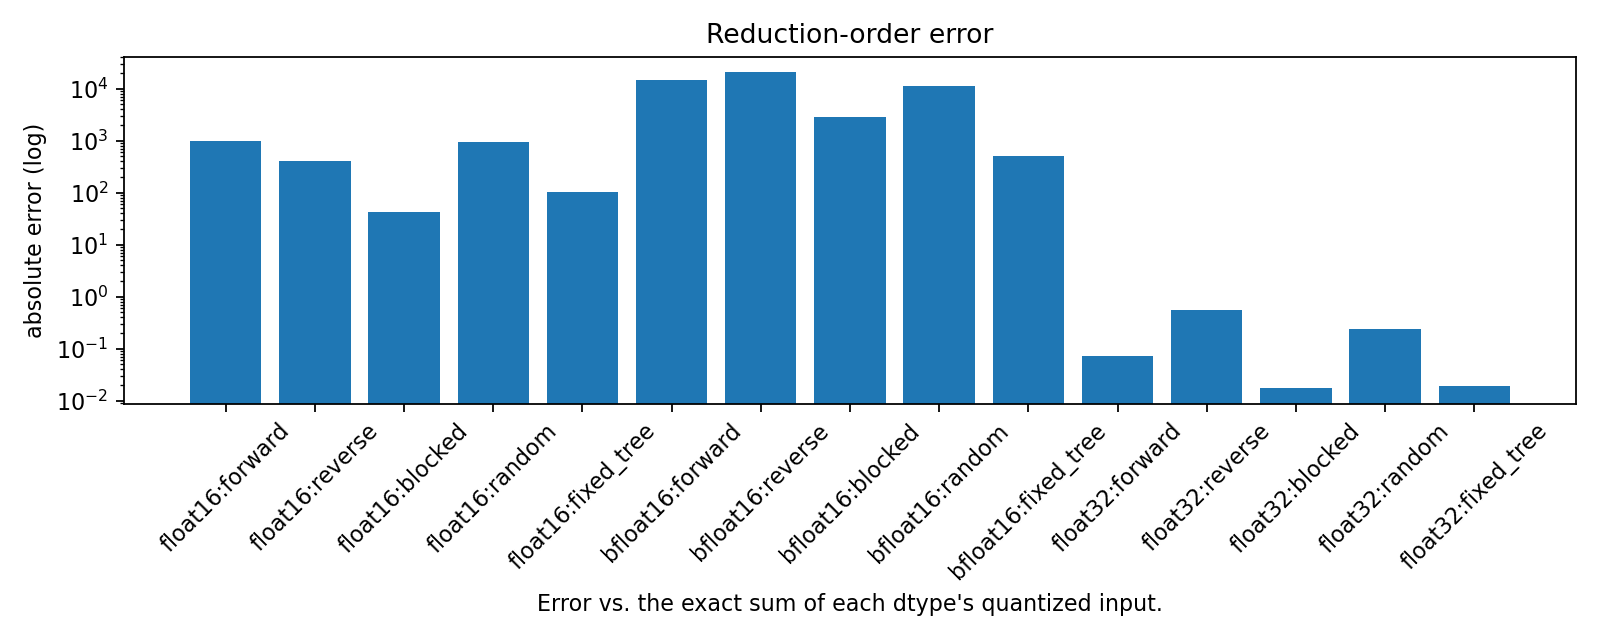
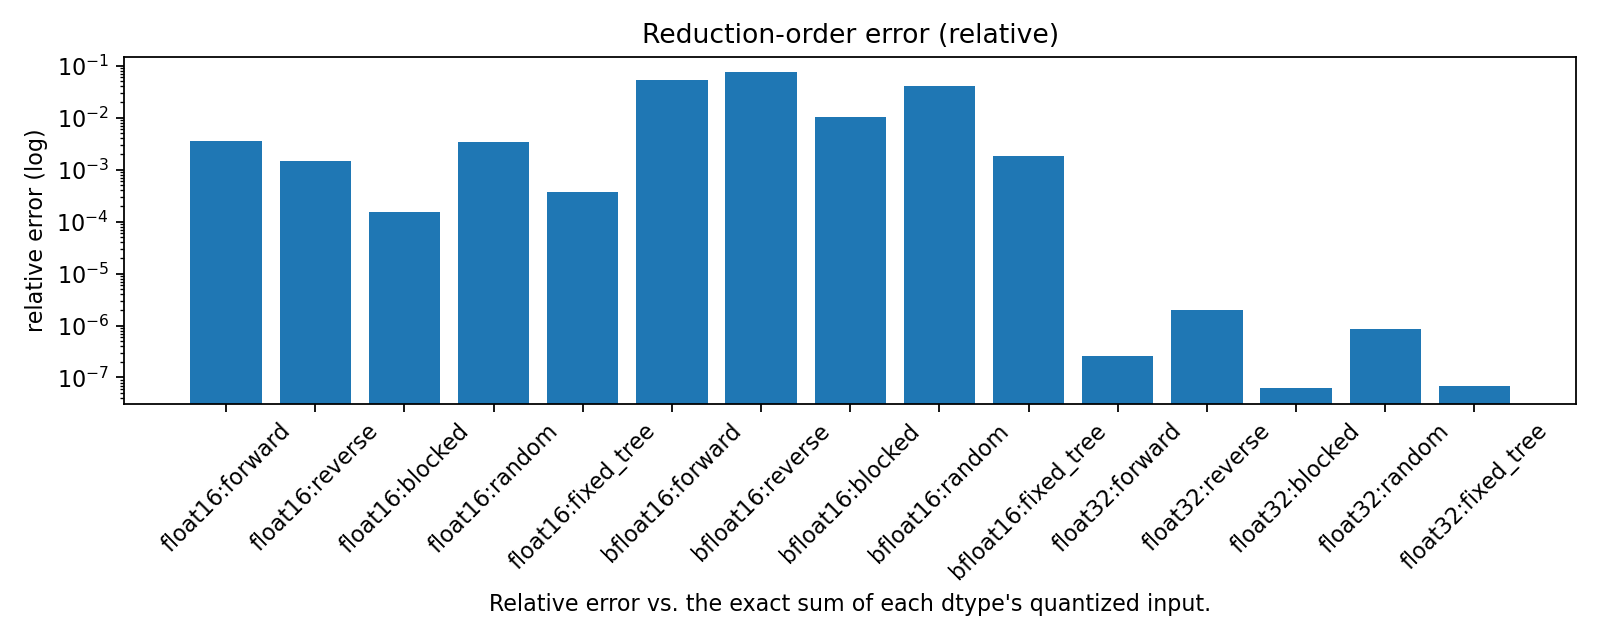
update

diff --git a/src/analysis/plot_results.py b/src/analysis/plot_results.py
@@ -415,15 +415,15 @@ def main() -> None:
                   if row.get("status") == "ok" and row.get("repeat") == "1"]
     if reductions:
         labels = [f"{row['dtype']}:{row['method']}" for row in reductions]
-        errors = [max(float(row["absolute_error"]), 1e-12) for row in reductions]
+        errors = [max(float(row["relative_error"]), 1e-12) for row in reductions]
         fig, axis = plt.subplots(figsize=(10, 4))
         axis.bar(labels, errors)
         axis.set_yscale("log")
         axis.tick_params(axis="x", rotation=45)
         axis.set(
-            ylabel="absolute error (log)",
-            title="Reduction-order error",
-            xlabel="Error vs. the exact sum of each dtype's quantized input.",
+            ylabel="relative error (log)",
+            title="Reduction-order error (relative)",
+            xlabel="Relative error vs. the exact sum of each dtype's quantized input.",
         )
         fig.tight_layout()
         path = output / "reduction_error.png"